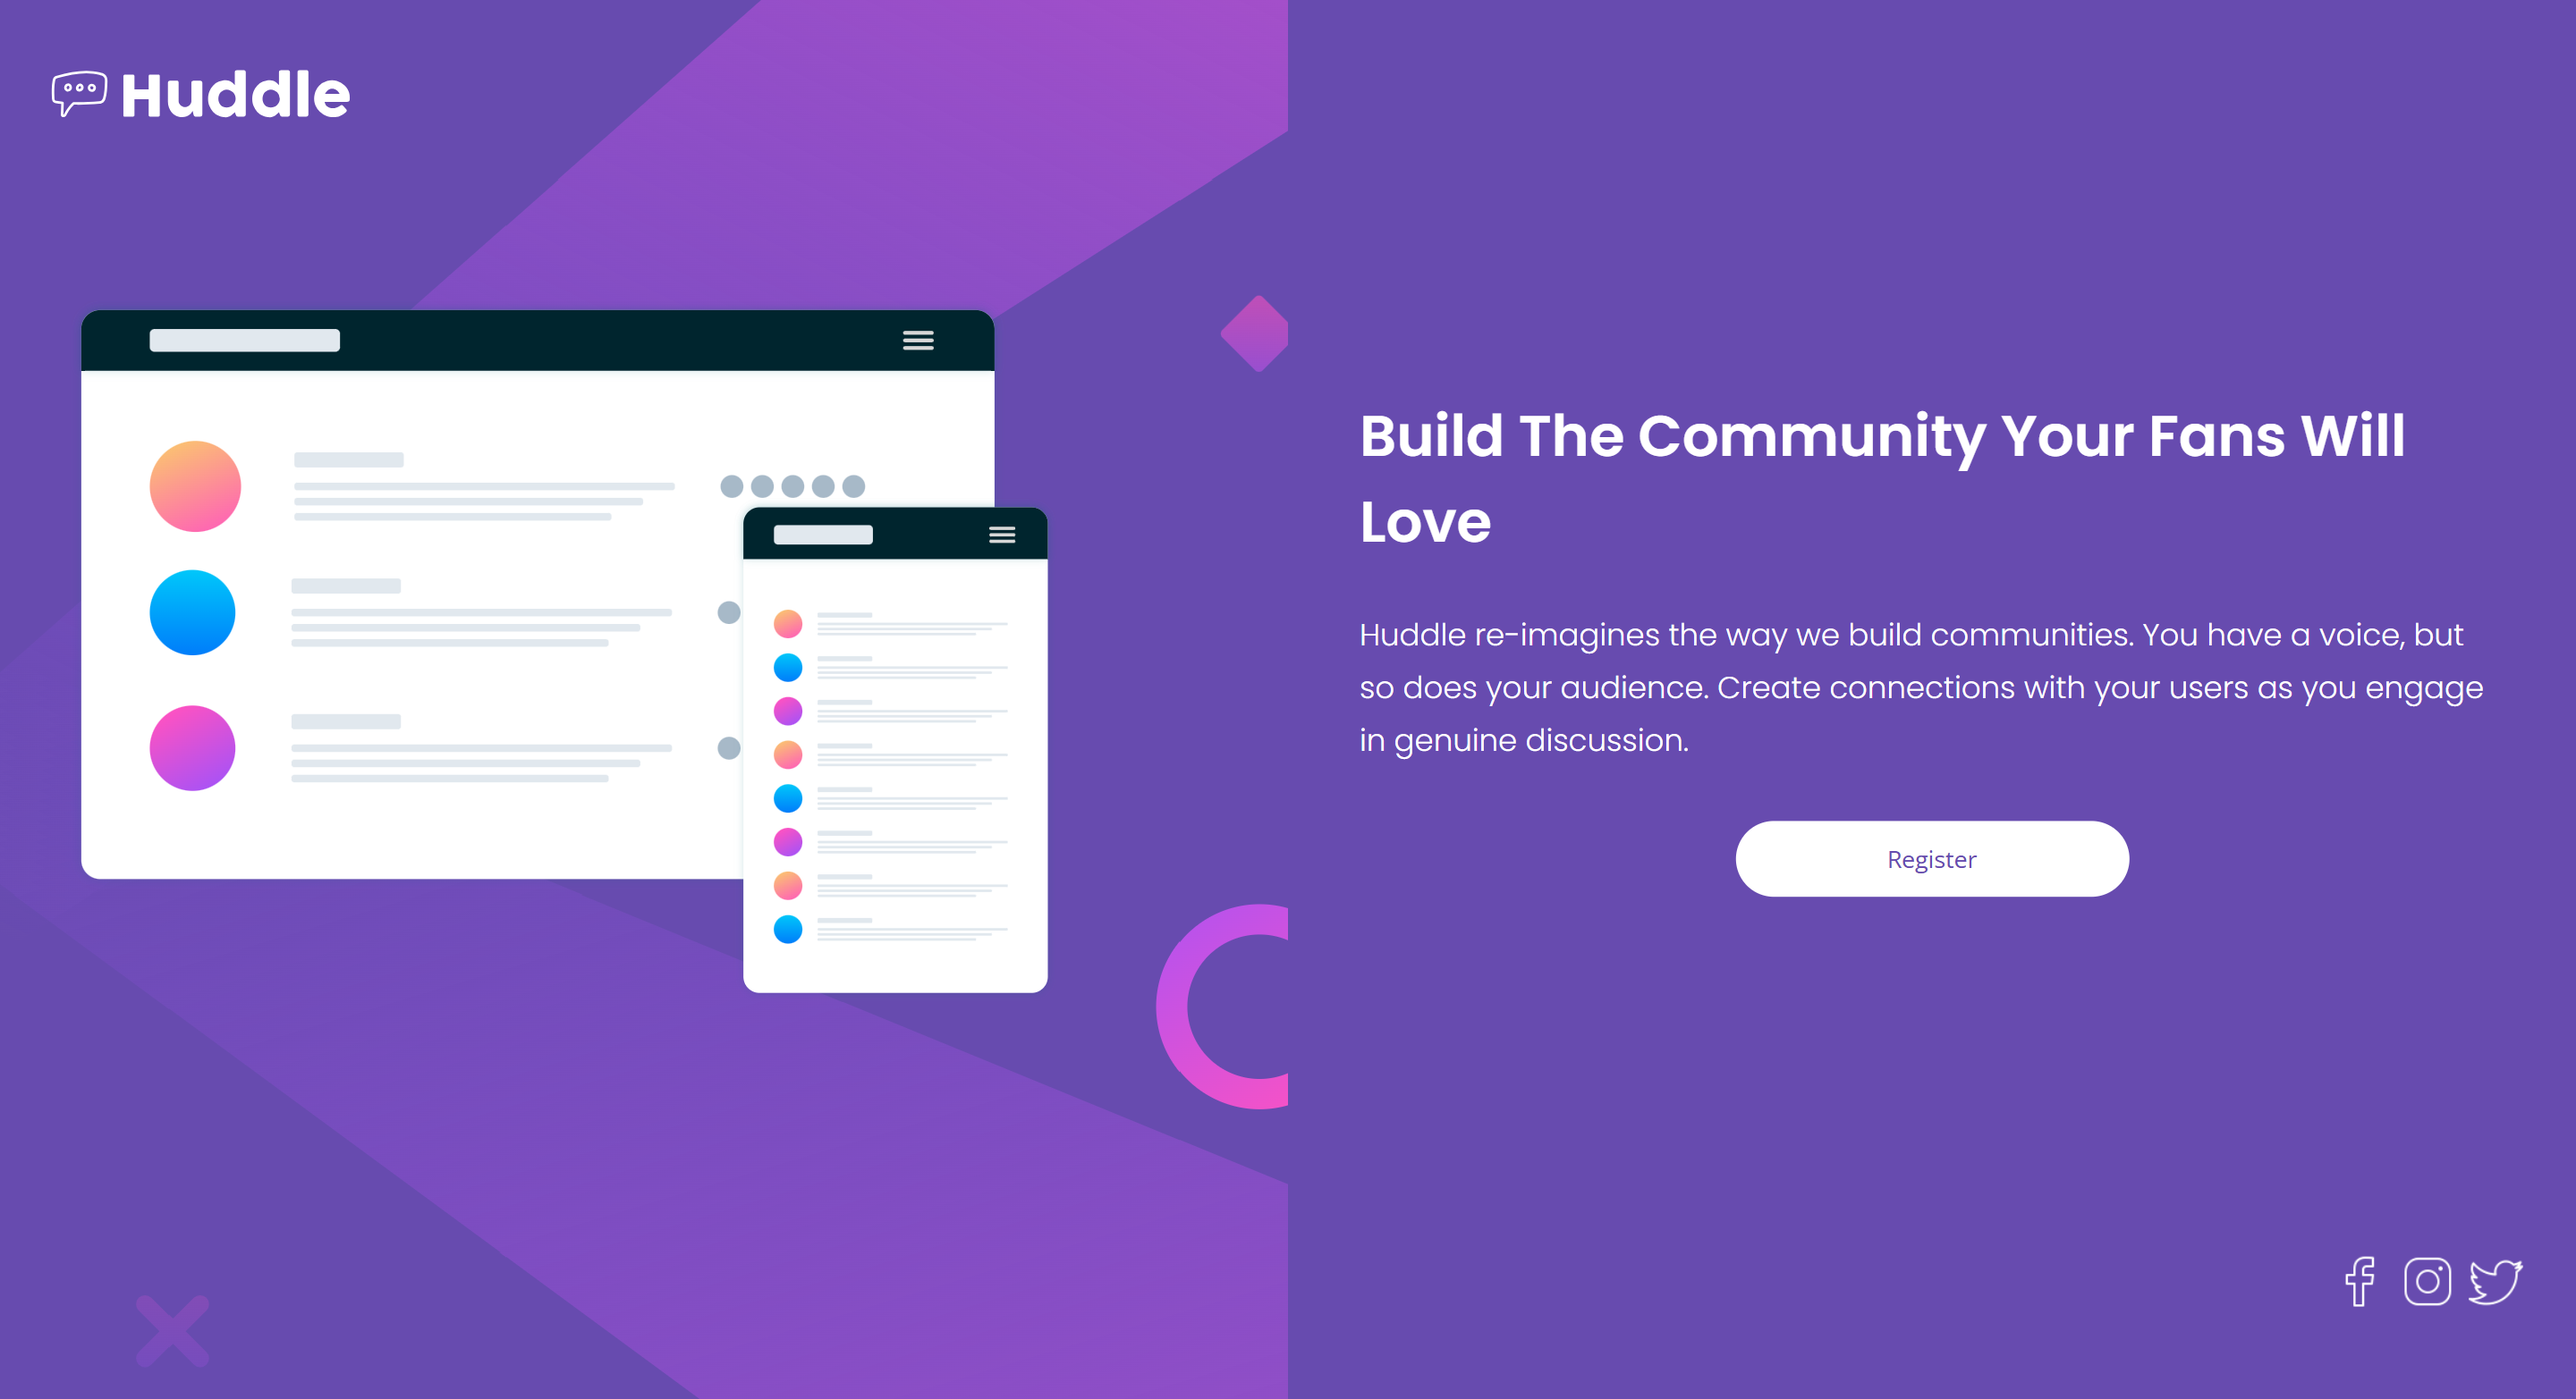
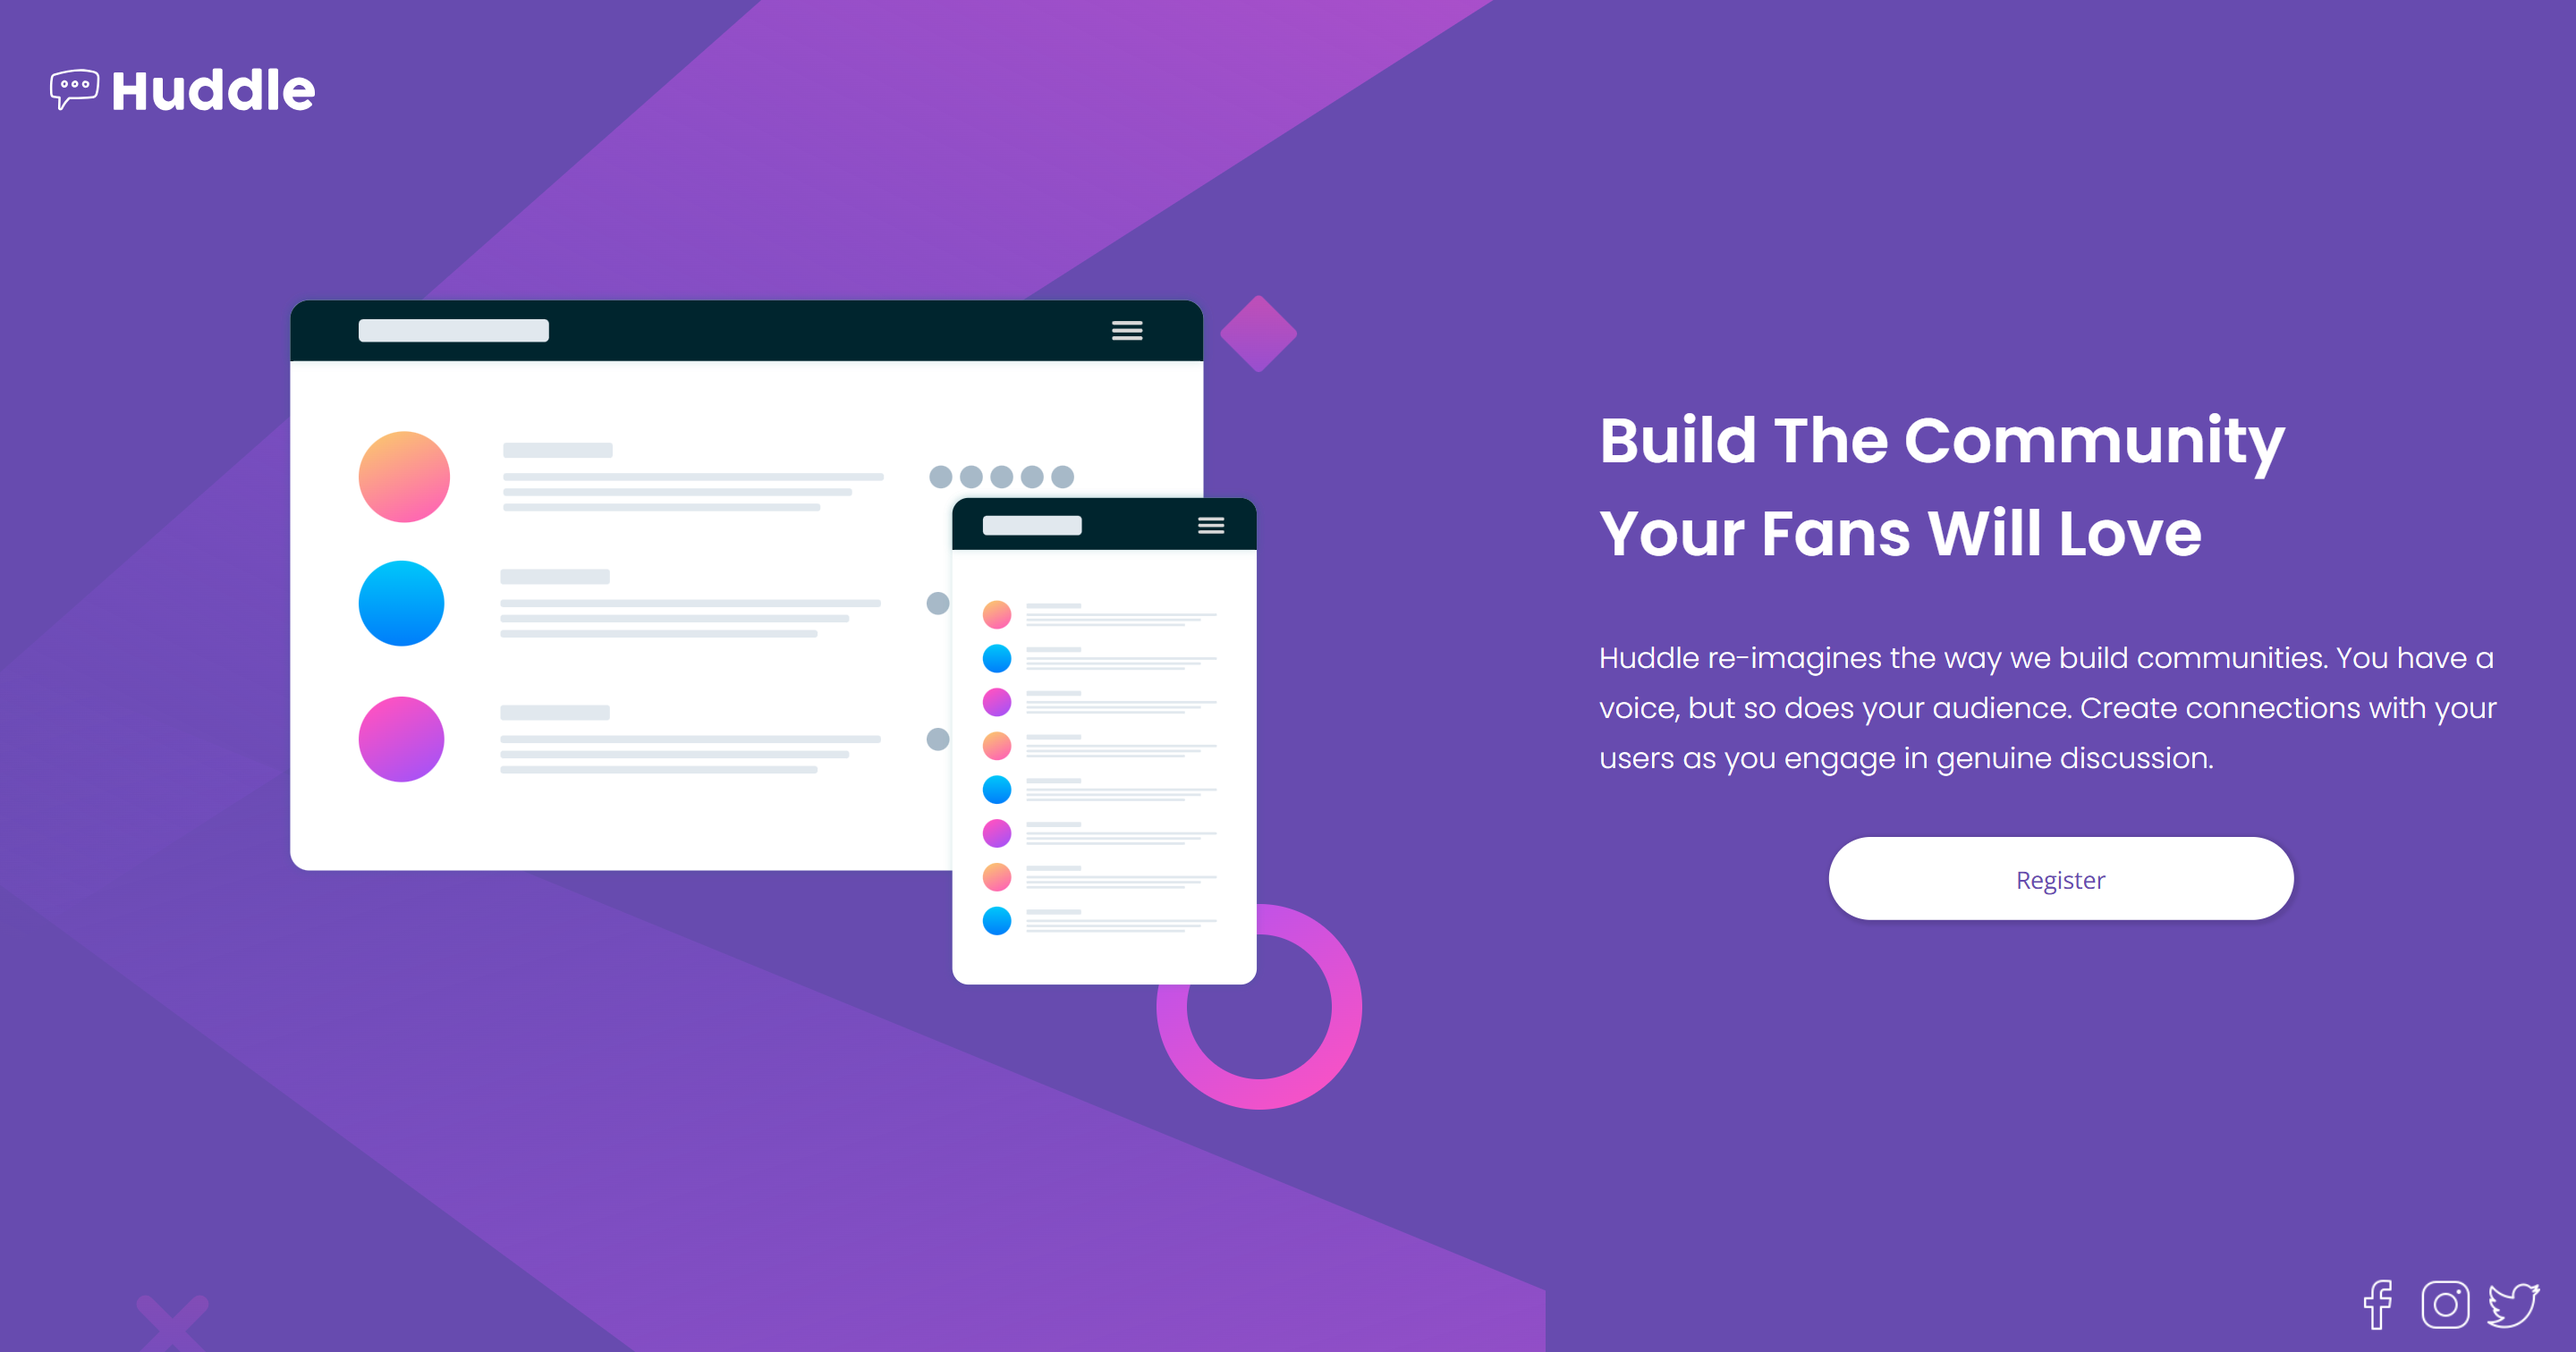
first commit

diff --git a/style.css b/style.css
@@ -22,17 +22,17 @@ body {
 .background {
     background-image: url(asseats/bg-mobile.svg);
     background-color: var(--color-primary-violet);
-    height: 44rem;
+    height: 41rem;
 }
 
 .header {
-    width: 18rem;
+    width: 14.5rem;
     margin: 3rem 2rem 5rem;
 }
 
 .image {
     margin: 0 auto 5.6rem;
-    width: 40rem;
+    width: 34rem;
     display: flex;
     align-items: center;
     justify-content: center;
@@ -43,24 +43,24 @@ body {
 }
 
 main {
-    padding: 0 3rem 0;
+    padding: 0 2rem 0;
 }
 
 h1 {
     font-family: "Poppins", serif;
     font-weight: 600;
-    font-size: 3.2rem;
+    font-size: 2.8rem;
     text-align: center;
     color: var(--color-white);
 
-    margin-top: 3rem;
+    margin-top: 3.2rem;
     margin-bottom: 2.4rem;
 }
 
 p {
     font-family: "Poppins", serif;
     font-weight: 300;
-    font-size: 1.7rem;
+    font-size: 1.5rem;
     line-height: 175%;
     text-align: center;
     color: var(--color-white);
@@ -83,13 +83,14 @@ button {
     color: var(--color-primary-violet);
     font-family: "Open Sans", serif;
     font-weight: 400;
+    box-shadow: 1px 1px 2px 2px rgba(0, 0, 0, 0.1);
 }
 
 button:hover {
     background-color: hsl(280, 44%, 88%);
 }
 
-.icons {
+#icons {
     display: flex;
     align-items: center;
     justify-content: center;
@@ -112,7 +113,7 @@ button:hover {
 @media (min-width: 1024px) {
     body {
         display: grid;
-        grid-template-columns: repeat(2, 1fr);
+        grid-template-columns: 60% 40%;
         overflow: hidden;
     }
     
@@ -122,8 +123,8 @@ button:hover {
     }
 
     .image {
-        margin: 4rem 2rem 2rem 4rem;
-        width: 55rem;
+        margin: 4rem auto 2rem;
+        width: 52rem;
     }
 
     .image:hover {
@@ -137,7 +138,7 @@ button:hover {
     }
 
     .text {
-        margin: 22rem 1rem 20rem;
+        margin: 18rem 1rem 14rem;
     }
 
     .text h1, p {
@@ -148,9 +149,11 @@ button:hover {
         display: flex;
         align-items: start;
         justify-items: first baseline;
+
+        margin-bottom: 0;
     }
 
-    .icons {
+    #icons {
         background-color: var(--color-primary-violet);
 
         display: flex;
@@ -158,5 +161,50 @@ button:hover {
         justify-content: end;
         width: 100%;
         gap: .8rem;
+    }
+}
+
+@media (min-width: 1440px) {
+    body {
+        display: grid;
+        grid-template-columns: 60% 40%;
+    }
+
+    .header {
+        width: 16rem;
+    }
+
+    .image {
+        margin-inline: auto;
+        width: 55rem;
+    }
+
+    .text {
+        display: flex;
+        flex-direction: column;
+        justify-content: center;
+        align-items: center;
+
+        margin-bottom: 20rem;
+        margin-right: 2rem
+    }
+
+    h1, p {
+        text-align: left;
+    }
+
+    h1 {
+        margin: auto 11rem 3rem 0;
+        font-size: 3.5rem;
+    }
+
+    p {
+        font-size: 1.6rem;
+    }
+
+    button {
+        width: 26rem;
+        padding: 14px;
+        margin-bottom: 0;
     }
 }

diff --git a/Index.html b/Index.html
@@ -30,7 +30,7 @@
     <button>Register</button>
     </div>
 
-    <div class="icons">
+    <div id="icons">
         <img src="asseats/facebook.png" alt="" class="icon">
         <img src="asseats/instagram.png" alt="" class="icon">
         <img src="asseats/twitter.png" alt="" class="icon">

diff --git a/README.md b/README.md
@@ -1,12 +1,11 @@
-# Projeto 01 - frontend mentor (huddle)
-
-Breve descrição sobre o que o projeto faz e sua finalidade.
+# Huddle-Frontend Mentor
 
 Versão desktop
 ![Captura de Tela do Projeto](./.github/preview.desktop.png)
 
-Versão mobile
+Versão mobile 
 ![Captura de Tela do Projeto](./.github/preview.mobile.png)
+
 
 ## 🚀 Tecnologias
 
